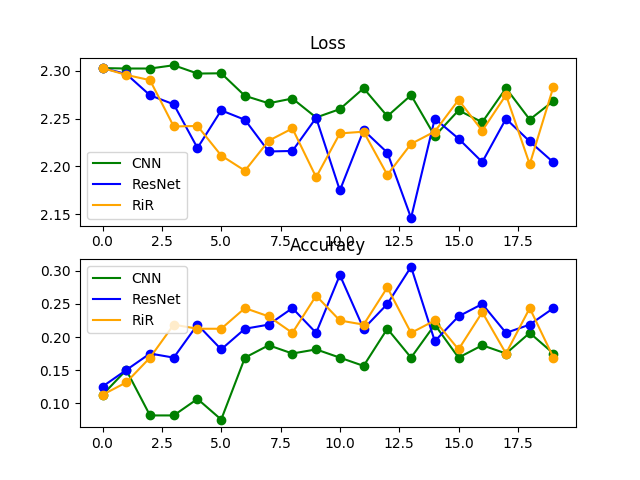
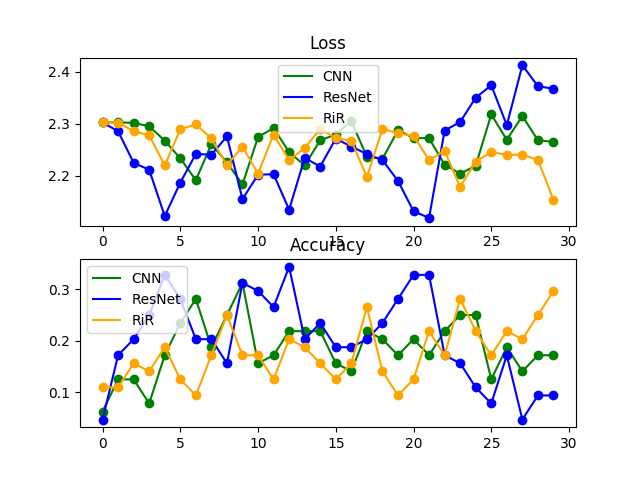
1. add resnet init 2. correct the structure of RiR

diff --git a/model.py b/model.py
@@ -13,6 +13,10 @@ class Net(object):
         self.accuracy = tf.reduce_mean(tf.cast( \
             tf.equal(tf.argmax(self.predict, 1), tf.argmax(self.tags_ph, 1)), "float"), name='accuracy')
 
+    def zeroPadding(self, x):
+        self.zero_tensor = tf.zeros_like(x)
+        return tf.concat([x, self.zero_tensor], axis=3)
+
 class CNN(Net):
     def __init__(self, imgs_ph, tags_ph):
         self.imgs_ph = imgs_ph
@@ -56,26 +60,26 @@ class ResNet(Net):
         # -----------------------------
         # 1st general residual block
         # -----------------------------
-        self.network = tl.layers.Conv2d(self.input_layer, n_filter=16, name='resnet_conv2')
-        self.network = tl.layers.Conv2d(self.network, n_filter=16, name='resnet_conv3')
-        self.network = tl.layers.ElementwiseLayer([self.network, self.input_layer], combine_fn = tf.add, name='resnet_add_1')
+        self.network = tl.layers.Conv2d(self.input_layer, n_filter=32, name='resnet_conv2')
+        self.network = tl.layers.Conv2d(self.network, n_filter=32, name='resnet_conv3')
+        padded_input = tl.layers.LambdaLayer(self.input_layer, self.zeroPadding, name='resnet_channel_padding_1')
+        self.network = tl.layers.ElementwiseLayer([self.network, padded_input], combine_fn = tf.add, name='resnet_add_1')
+        
         self.network = tl.layers.BatchNormLayer(self.network, act = tf.nn.relu, name='resnet_bn_relu_1')
-        self.network = tl.layers.MaxPool2d(self.network, name='resnet_maxpool1')
-
-        # Conv fix channel
-        self.input_layer = tl.layers.Conv2d(self.network, n_filter=32, act = tf.nn.relu, name='resnet_conv4')
+        self.input_layer = tl.layers.MaxPool2d(self.network, name='resnet_maxpool1')        
 
         # -----------------------------
         # 2nd general residual block
         # -----------------------------
-        self.network = tl.layers.Conv2d(self.input_layer, n_filter=32, name='resnet_conv5')
-        self.network = tl.layers.Conv2d(self.network, n_filter=32, name='resnet_conv6')
-        self.network = tl.layers.ElementwiseLayer([self.network, self.input_layer], combine_fn = tf.add, name='resnet_add_2')
+        self.network = tl.layers.Conv2d(self.input_layer, n_filter=64, name='resnet_conv5')
+        self.network = tl.layers.Conv2d(self.network, n_filter=64, name='resnet_conv6')
+        padded_input = tl.layers.LambdaLayer(self.input_layer, self.zeroPadding, name='resnet_channel_padding_2')
+        self.network = tl.layers.ElementwiseLayer([self.network, padded_input], combine_fn = tf.add, name='resnet_add_2')
         self.network = tl.layers.BatchNormLayer(self.network, act = tf.nn.relu, name='resnet_bn_relu_2')
         self.network = tl.layers.MaxPool2d(self.network, name='resnet_maxpool2')
 
         # Softmax
-        self.network = tl.layers.Conv2d(self.network, n_filter=64, act = tf.nn.relu, name='resnet_conv7')
+        self.network = tl.layers.Conv2d(self.network, n_filter=128, act = tf.nn.relu, name='resnet_conv7')
         self.network = tl.layers.FlattenLayer(self.network, name='resnet_flat')
         self.network = tl.layers.DenseLayer(self.network, n_units = 10, act = tf.nn.softmax, name='resnet_fc')
         self.predict = self.network.outputs
@@ -86,47 +90,42 @@ class RiR(Net):
         self.imgs_ph = imgs_ph
         self.tags_ph = tags_ph
 
-        # 1st conv fix channel
-        self.input_layer = tl.layers.InputLayer(self.imgs_ph, name='rir_input')
-        self.residual_input = tl.layers.Conv2d(self.input_layer, n_filter=16, act = tf.nn.relu, name='rir_res_conv1')
-        self.transient_input = tl.layers.Conv2d(self.input_layer, n_filter=16, act = tf.nn.relu, name='rir_tra_conv1')
+        # Revise channel first
+        self.residual_input = tl.layers.InputLayer(imgs_ph, name ='rir_residual_input')
+        self.transient_input = tl.layers.InputLayer(imgs_ph, name ='rir_transient_input')
+        self.residual_stream = tl.layers.Conv2d(self.residual_input, act = tf.nn.relu, n_filter=16, name='rir_revise_conv1')
+        self.transient_stream = tl.layers.Conv2d(self.transient_input, act = tf.nn.relu, n_filter=16, name ='rir_revise_conv2')
+
+        # Add general residual blocks
+        self.residual_stream, self.transient_stream = self.residual_block(self.residual_stream, self.transient_stream, 32, 1)
+        self.residual_stream, self.transient_stream = self.residual_block(self.residual_stream, self.transient_stream, 64, 2)
 
         # -----------------------------
-        # 1st general residual block
+        # Softmax
         # -----------------------------
-        self.residual_stream = tl.layers.Conv2d(self.residual_input, n_filter=16, name='rir_res_conv2')
-        self.residual_stream = tl.layers.Conv2d(self.residual_stream, n_filter=16, name='rir_res_conv3')
-        self.transient_stream = tl.layers.Conv2d(self.transient_input, n_filter=16, name='rir_tra_conv2')
-        self.transient_stream = tl.layers.Conv2d(self.transient_stream, n_filter=16, name='rir_tra_conv3')
-        self.residual_stream = tl.layers.ElementwiseLayer([self.residual_input, self.residual_stream, self.transient_stream], combine_fn = tf.add, name='rir_res_add_1')
-        self.transient_stream = tl.layers.ElementwiseLayer([self.residual_stream, self.transient_stream], combine_fn = tf.add, name='rir_tra_add_1')
-        self.residual_stream = tl.layers.BatchNormLayer(self.residual_stream, act = tf.nn.relu, name='rir_res_bn_1')
-        self.residual_stream = tl.layers.MaxPool2d(self.residual_stream, name='rir_res_pool_1')
-        self.transient_stream = tl.layers.BatchNormLayer(self.transient_stream, act = tf.nn.relu, name='rir_tra_bn_1')
-        self.transient_stream = tl.layers.MaxPool2d(self.transient_stream, name='rir_tra_pool_1')
+        self.network = tl.layers.ConcatLayer([self.residual_stream, self.transient_stream])
+        self.network = tl.layers.Conv2d(self.network, n_filter=128, act = tf.nn.relu, name='rir_conv7')
 
-        # 2nd conv fix channel
-        self.residual_input = tl.layers.Conv2d(self.residual_stream, n_filter=32, act = tf.nn.relu, name='rir_res_conv4')
-        self.transient_input = tl.layers.Conv2d(self.transient_stream, n_filter=32, act = tf.nn.relu, name='rir_tra_conv4')
-
-        # -----------------------------
-        # 2nd general residual block
-        # -----------------------------
-        self.residual_stream = tl.layers.Conv2d(self.residual_input, n_filter=32, name='rir_res_conv5')
-        self.residual_stream = tl.layers.Conv2d(self.residual_stream, n_filter=32, name='rir_res_conv6')
-        self.transient_stream = tl.layers.Conv2d(self.transient_input, n_filter=32, name='rir_tra_conv5')
-        self.transient_stream = tl.layers.Conv2d(self.transient_stream, n_filter=32, name='rir_tra_conv6')
-        self.residual_stream = tl.layers.ElementwiseLayer([self.residual_input, self.residual_stream, self.transient_stream], combine_fn = tf.add, name='rir_res_add_2')
-        self.transient_stream = tl.layers.ElementwiseLayer([self.residual_stream, self.transient_stream], combine_fn = tf.add, name='rir_tra_add_2')
-        self.residual_stream = tl.layers.BatchNormLayer(self.residual_stream, act = tf.nn.relu, name='rir_res_bn_2')
-        self.residual_stream = tl.layers.MaxPool2d(self.residual_stream, name='rir_res_pool_2')
-        self.transient_stream = tl.layers.BatchNormLayer(self.transient_stream, act = tf.nn.relu, name='rir_tra_bn_2')
-        self.transient_stream = tl.layers.MaxPool2d(self.transient_stream, name='rir_tra_pool_2')
+        # Global average pooling
+        kernel_height = self.network.outputs.shape[1]
+        kernel_width = self.network.outputs.shape[2]
+        self.network = tl.layers.MaxPool2d(self.network, filter_size=(kernel_height, kernel_width))
+        self.network = tl.layers.FlattenLayer(self.network, name='rir_flat')
 
         # Softmax
-        self.network = tl.layers.ConcatLayer([self.residual_stream, self.transient_stream])
-        self.network = tl.layers.Conv2d(self.network, n_filter=64, act = tf.nn.relu, name='rir_conv7')
-        self.network = tl.layers.FlattenLayer(self.network, name='rir_flat')
         self.network = tl.layers.DenseLayer(self.network, n_units = 10, act = tf.nn.softmax, name='rir_fc')
         self.predict = self.network.outputs
-        self.work(imgs_ph, tags_ph, self.predict)
+        self.work(imgs_ph, tags_ph, self.predict)    
+
+    def residual_block(self, residual_input, transient_input, n_filters, name):
+        self.residual_stram_main = tl.layers.Conv2d(residual_input, n_filter=n_filters, name='rir_general_residual_block_'+str(name)+'conv1')
+        self.residual_stram_extra = tl.layers.Conv2d(residual_input, n_filter=n_filters, name='rir_general_residual_block_'+str(name)+'conv2')
+        self.transient_stream_main = tl.layers.Conv2d(residual_input, n_filter=n_filters, name='rir_general_residual_block_'+str(name)+'conv3')
+        self.transient_stream_extra = tl.layers.Conv2d(residual_input, n_filter=n_filters, name='rir_general_residual_block_'+str(name)+'conv4')
+        self.residual_stram_main = tl.layers.ElementwiseLayer([self.residual_stram_main, self.transient_stream_extra], combine_fn = tf.add, name='rir_general_residual_block_'+str(name)+'add1')
+        padded_input = tl.layers.LambdaLayer(residual_input, self.zeroPadding, name='rir_general_residual_block_'+str(name)+'channel_padding')
+        self.residual_stram_main = tl.layers.ElementwiseLayer([self.residual_stram_main, padded_input], combine_fn = tf.add, name='rir_general_residual_block_'+str(name)+'add2')
+        self.transient_stream_main = tl.layers.ElementwiseLayer([self.transient_stream_main, self.residual_stram_extra], combine_fn = tf.add, name='rir_general_residual_block_'+str(name)+'add3')
+        self.residual_stram_main = tl.layers.BatchNormLayer(self.residual_stram_main, act = tf.nn.relu, name='rir_general_residual_block_'+str(name)+'_res_bn')
+        self.transient_stream_main = tl.layers.BatchNormLayer(self.transient_stream_main, act = tf.nn.relu, name='rir_general_residual_block_'+str(name)+'_tra_bn')
+        return self.residual_stram_main, self.transient_stream_main

diff --git a/main.py b/main.py
@@ -5,8 +5,9 @@ import tensorlayer as tl
 import tensorflow as tf
 import numpy as np
 
-epoches = 200               # Epoches
-M = 5                       # Monte-Carlo liked scalar
+epoches = 1                 # Epoches
+iters = 400                 # Iterators
+M = 4                       # Monte-Carlo liked scalar
 record = {
     'loss': {               # Loss
         'cnn': [],
@@ -47,7 +48,6 @@ if __name__ == '__main__':
     #train_x -= 0.5
     train_x = (train_x - 127.5) / 127.5
     train_y = to_categorical(train_y)
-    print('max: ', np.max(train_x))
 
     # Construct the network
     imgs_ph = tf.placeholder(tf.float32, [None, 32, 32, 3])
@@ -58,22 +58,23 @@ if __name__ == '__main__':
 
     # Train toward usual CNN
     with tf.Session() as sess:
-        for j in range(M):
+        for i in range(M):
             sess.run(tf.global_variables_initializer())
-            print('Scalar: ', j)
-            for i in range(epoches):
-                imgs_batch, label_batch = next_batch(train_x, train_y, batch_size=32)
-                feed_dict = {
-                    imgs_ph: imgs_batch,
-                    tags_ph: label_batch
-                }
-                _cnn_loss, _cnn_acc, _ = sess.run([usual_cnn.loss, usual_cnn.accuracy, usual_cnn.optimize], feed_dict=feed_dict)
-                _res_net_loss, _res_net_acc, _ = sess.run([res_net.loss, res_net.accuracy, res_net.optimize], feed_dict=feed_dict)
-                _rir_loss, _rir_acc, _ = sess.run([rir.loss, rir.accuracy, rir.optimize], feed_dict=feed_dict)
-                if i % 10 == 0:
-                    print('iter: ', i, '\tCNN loss: ', _cnn_loss, '\tacc: ', _cnn_acc, '\tResNet loss: ', _res_net_loss, \
-                        '\tacc: ', _res_net_acc, '\tRiR loss: ', _rir_loss, '\tacc: ', _rir_acc)
-                    recordTrainResult(_cnn_loss, _res_net_loss, _rir_loss, _cnn_acc, _res_net_acc, _rir_acc)
+            print('Scalar: ', i)
+            for j in range(epoches):
+                for k in range(iters):
+                    imgs_batch, label_batch = next_batch(train_x, train_y, batch_size=32)
+                    feed_dict = {
+                        imgs_ph: imgs_batch,
+                        tags_ph: label_batch
+                    }
+                    _cnn_loss, _cnn_acc, _ = sess.run([usual_cnn.loss, usual_cnn.accuracy, usual_cnn.optimize], feed_dict=feed_dict)
+                    _res_net_loss, _res_net_acc, _ = sess.run([res_net.loss, res_net.accuracy, res_net.optimize], feed_dict=feed_dict)
+                    _rir_loss, _rir_acc, _ = sess.run([rir.loss, rir.accuracy, rir.optimize], feed_dict=feed_dict)
+                    if k % 10 == 0:
+                        print('iter: ', k, '\tCNN loss: ', _cnn_loss, '\tacc: ', _cnn_acc, '\tResNet loss: ', _res_net_loss, \
+                            '\tacc: ', _res_net_acc, '\tRiR loss: ', _rir_loss, '\tacc: ', _rir_acc)
+                        recordTrainResult(_cnn_loss, _res_net_loss, _rir_loss, _cnn_acc, _res_net_acc, _rir_acc)
 
     # Visualize
     record = meanError(record, M)
